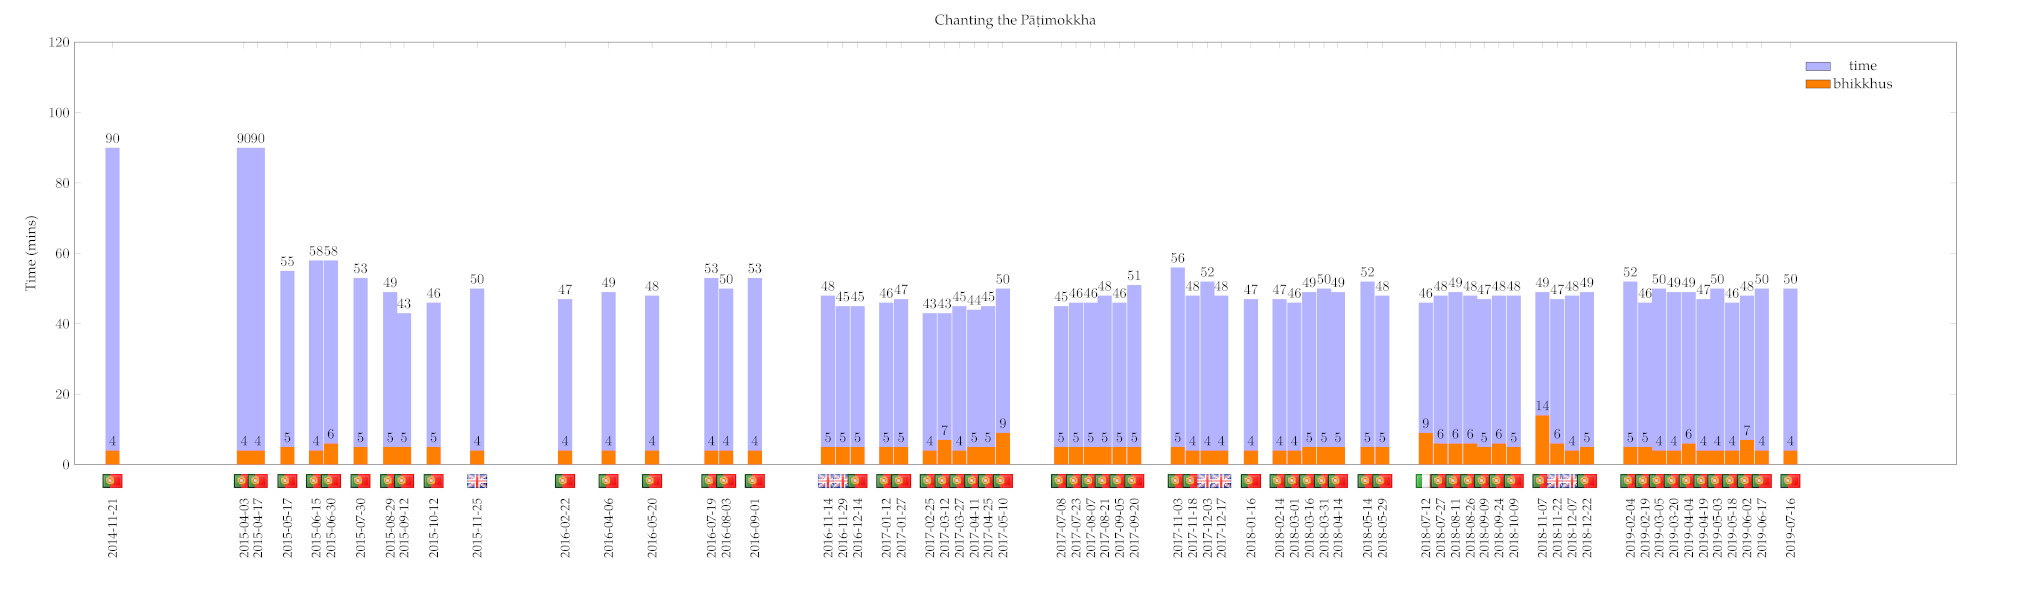
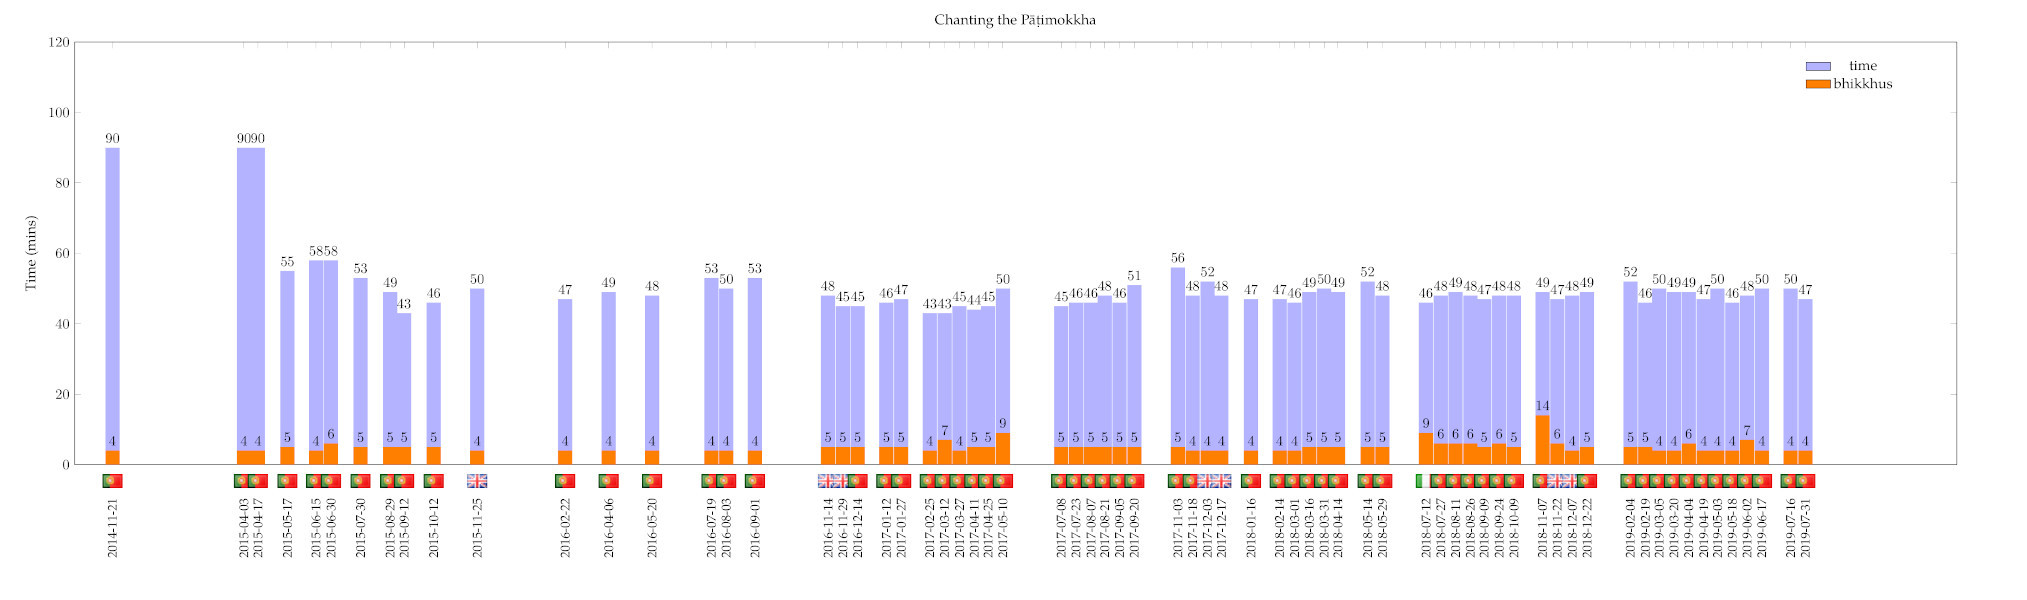
upd

diff --git a/src/patimokkha-chanting-chart.tex b/src/patimokkha-chanting-chart.tex
@@ -155,6 +155,7 @@
   \node [anchor=south, yshift=-20pt] at (axis cs:2019-06-02,0) {\includegraphics[width=5mm]{pt}};
   \node [anchor=south, yshift=-20pt] at (axis cs:2019-06-17,0) {\includegraphics[width=5mm]{pt}};
   \node [anchor=south, yshift=-20pt] at (axis cs:2019-07-16,0) {\includegraphics[width=5mm]{pt}};
+  \node [anchor=south, yshift=-20pt] at (axis cs:2019-07-31,0) {\includegraphics[width=5mm]{pt}};
 
 \end{axis}
 \end{tikzpicture}
